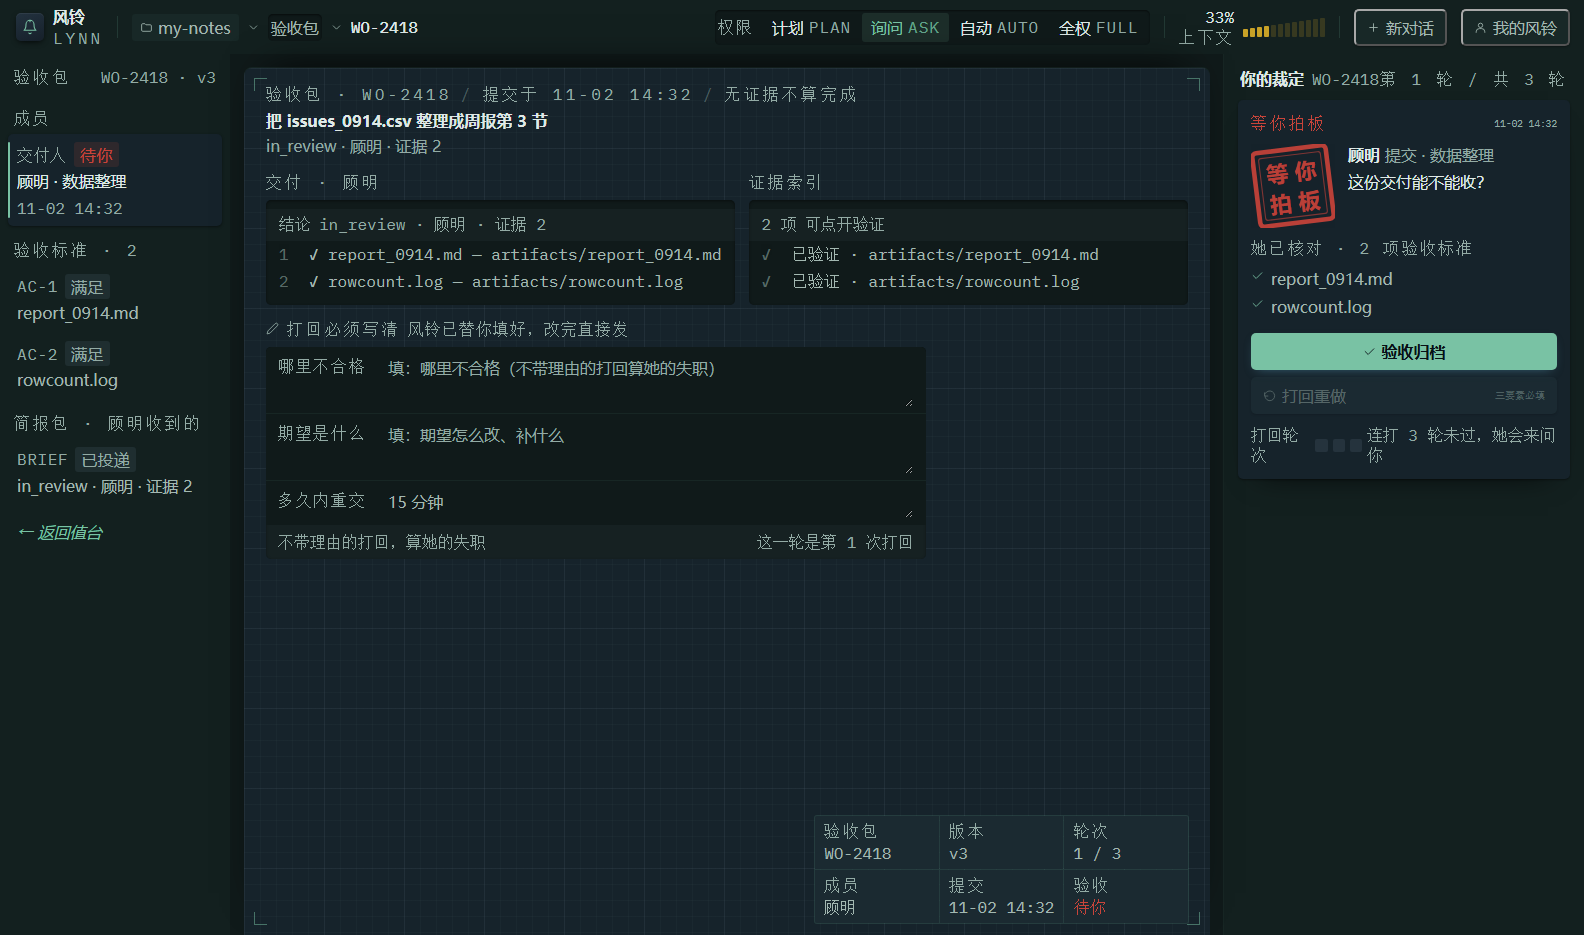
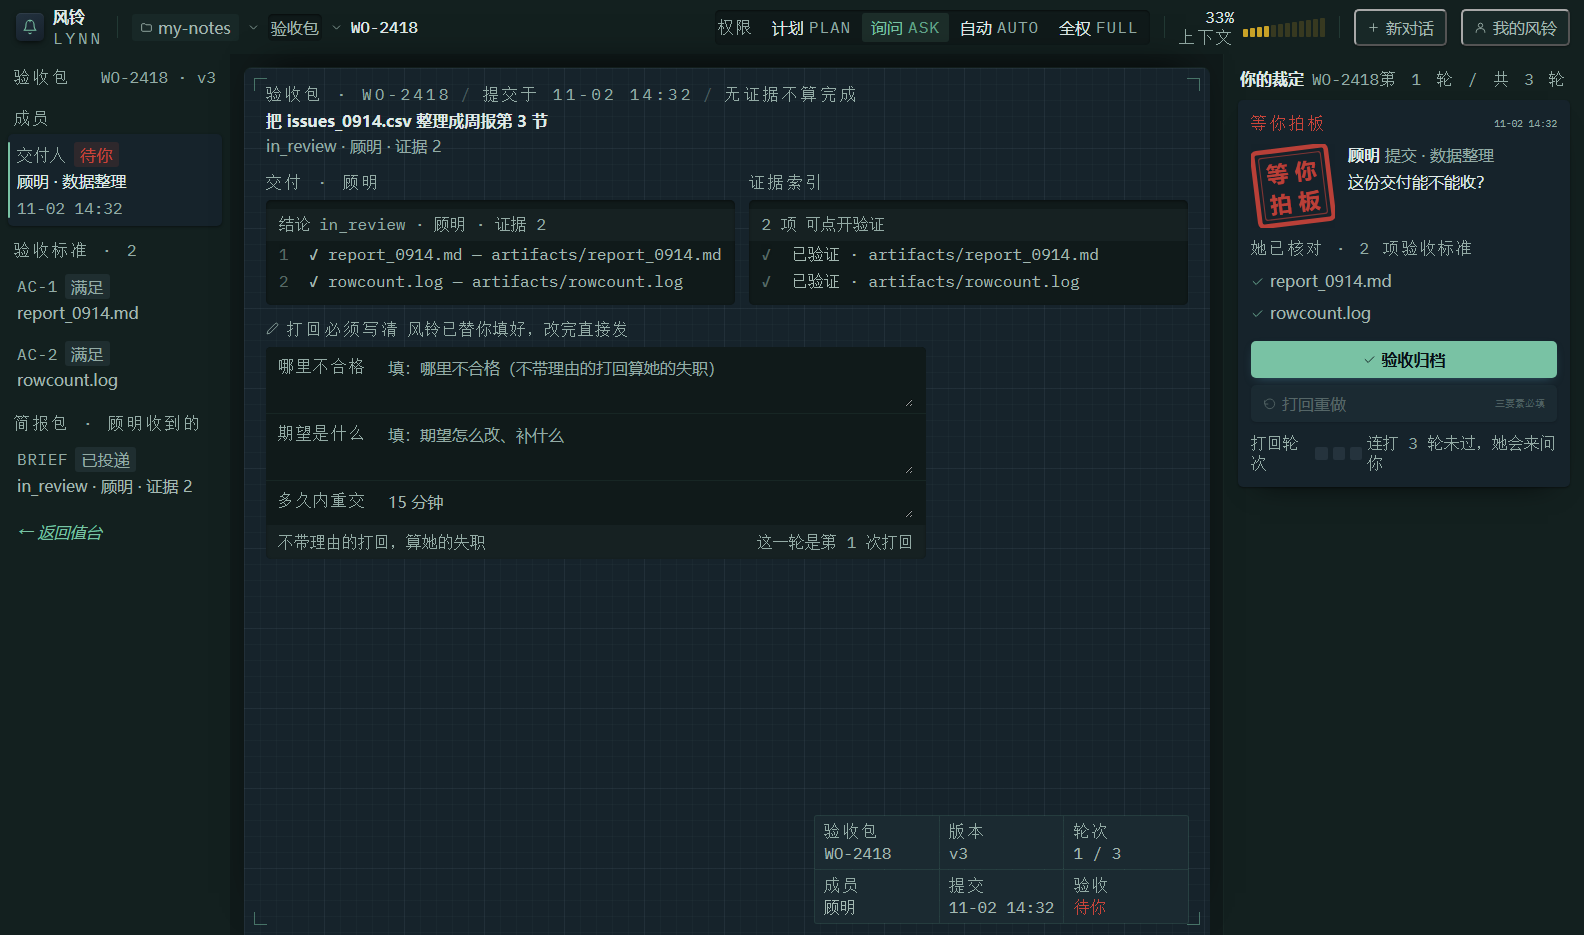
feat: compaction notices, session reset, theme-aware startup bg, clickable evidence, narrow-rail handle

Changed region(s): [[0.7734, 0.2791, 0.9899, 0.4652], [0.8662, 0.4652, 0.9899, 0.4963]]

diff --git a/src/renderer/desk/Desk.tsx b/src/renderer/desk/Desk.tsx
@@ -111,8 +111,10 @@ function TopRail({
       />
 
       <div
-        className="gauge"
-        title={`上下文 ${desk.usage.contextTokens} / ${desk.usage.contextWindow} · 会话累计 ${fmtTokens(desk.tokensUsed)} tokens`}
+        className={`gauge${contextPct >= 90 ? " warn" : contextPct >= 70 ? " near" : ""}`}
+        title={`上下文 ${desk.usage.contextTokens} / ${desk.usage.contextWindow} · 会话累计 ${fmtTokens(desk.tokensUsed)} tokens${
+          contextPct >= 70 ? " · 接近上限时 Pi 会自动压缩，原文保留在卷宗" : ""
+        }`}
       >
         <div className="gauge-read">
           <div className="v">{contextPct}%</div>
@@ -1262,12 +1264,25 @@ function ReviewDesk({
                 <div className="accept">
                   <div className="k">她已核对 · {ac.length} 项验收标准</div>
                   <ul>
-                    {ac.map((c, i) => (
-                      <li key={i} className={c.ok ? "ok" : "bad"}>
-                        <Icon name={c.ok ? "check" : "warn"} size="sm" />
-                        <span>{c.text}</span>
-                      </li>
-                    ))}
+                    {ac.map((c, i) => {
+                      const ref = job.evidence[i]?.ref;
+                      return (
+                        <li key={i} className={c.ok ? "ok" : "bad"}>
+                          <button
+                            type="button"
+                            className="ac-link"
+                            disabled={!ref}
+                            title={ref ? `打开 ${ref}` : "这项没有可打开的文件"}
+                            onClick={() => {
+                              if (ref) void window.lynn.rpc("evidence.open", { taskId: job.id, ref });
+                            }}
+                          >
+                            <Icon name={c.ok ? "check" : "warn"} size="sm" />
+                            <span>{c.text}</span>
+                          </button>
+                        </li>
+                      );
+                    })}
                   </ul>
                 </div>
               )}

diff --git a/src/main/main.ts b/src/main/main.ts
@@ -24,14 +24,26 @@ let pet: BrowserWindow | null = null;
 const preload = () => path.join(__dirname, "preload.js");
 const indexHtml = () => path.join(__dirname, "../renderer/index.html");
 
+/** 上次用的主题底色：渲染层切换时写进来，首帧直接用，避免亮色主题先闪一帧暗底 */
+function lastBackground(): string {
+  try {
+    const file = path.join(app.getPath("userData"), "appearance.json");
+    const j = JSON.parse(fs.readFileSync(file, "utf-8")) as { desk?: string };
+    if (typeof j.desk === "string" && /^#[0-9a-f]{6}$/i.test(j.desk)) return j.desk;
+  } catch {
+    /* 首次启动没有这个文件 */
+  }
+  return "#0d1116";
+}
+
 function createWindow(): void {
   win = new BrowserWindow({
     width: 1440,
     height: 900,
     minWidth: 1080,
     minHeight: 720,
-    // 首帧就是主题底色：默认夜航暗色，避免暗色主题先闪一帧白屏
-    backgroundColor: "#0d1116",
+    // 首帧就是上次的主题底色（默认夜航暗色），不闪白也不闪错色
+    backgroundColor: lastBackground(),
     show: false,
     title: "风铃 Lynn · 指挥台",
     autoHideMenuBar: true,
@@ -131,6 +143,20 @@ app.whenReady().then(async () => {
       }
       if (method === "plugins.probe") {
         return kernel.probePlugin((params as { id: string }).id);
+      }
+      if (method === "app.appearance") {
+        const p = params as { mode?: string; desk?: string };
+        if (typeof p.desk === "string") win?.setBackgroundColor(p.desk);
+        try {
+          fs.writeFileSync(
+            path.join(app.getPath("userData"), "appearance.json"),
+            JSON.stringify({ mode: p.mode, desk: p.desk }),
+            "utf-8",
+          );
+        } catch {
+          /* 写不了就下次再试 */
+        }
+        return { ok: true };
       }
       if (method === "evidence.open") {
         const p = params as { taskId: string; ref: string };

diff --git a/src/main/kernel.ts b/src/main/kernel.ts
@@ -529,6 +529,7 @@ export class Kernel {
         },
       });
     });
+    this.setTurn({ phase: "working" });
     return approved
       ? null
       : `用户拒绝了这次「${name}」调用。不要重试同一动作，改成向用户说明或换一条路（审批拒绝不算错误轮）。`;
@@ -932,6 +933,22 @@ export class Kernel {
         this.lastDeltaEmit = now;
         this.notify({ type: "delta", text: this.liveCard.text, cardId: this.liveCard.id });
       }
+    }
+    // 压缩：Pi 内置自动压缩，界面必须给交代（否则"上下文突然变短"像丢数据）
+    if (ev.type === "compaction_start") {
+      this.card({ kind: "system", text: "上下文接近上限，正在压缩更早的对话…" });
+    }
+    if (ev.type === "compaction_end") {
+      const before = typeof ev.tokensBefore === "number" ? ev.tokensBefore : null;
+      const after = typeof ev.tokensAfter === "number" ? ev.tokensAfter : null;
+      this.card({
+        kind: "system",
+        text:
+          before !== null && after !== null
+            ? `已压缩：${before} → ${after} tokens。原文仍在卷宗，可随时回看。`
+            : "上下文已压缩。原文仍在卷宗，可随时回看。",
+      });
+      this.log("compacted", { before, after });
     }
     // 工具卡由 emit("tool") 统一落 feed，这里不重复
   }
@@ -1694,6 +1711,8 @@ export class Kernel {
         this.feed = [];
         this.history = [];
         this.tokensUsed = 0;
+        this.usage = { turnIn: 0, turnOut: 0, sessionIn: 0, sessionOut: 0, contextTokens: 0, contextWindow: this.usage.contextWindow };
+        this.setTurn({ phase: "idle", busy: false, pending: 0, taskId: undefined, startedAt: undefined });
         this.createFreshSession = true;
         void this.resetAgentHost();
         try {

diff --git a/src/renderer/styles/dispatch.css b/src/renderer/styles/dispatch.css
@@ -1515,3 +1515,46 @@ button.ev.openable:hover { background: var(--hover-bg); }
 button.ev:focus-visible { outline: 2px solid var(--blue); outline-offset: 2px; }
 .ev .t { color: var(--ink); }
 .ev .d { color: var(--ink-3); }
+
+/* 上下文接近上限：黄铜提醒、朱砂警告（文案在 gauge 的 title 里） */
+.gauge.near .gauge-read .v { color: var(--brass); }
+.gauge.warn .gauge-read .v { color: var(--seal); }
+
+/* 验收标准可点开证据（点了才真的打开文件） */
+.ac-link {
+  display: inline-flex;
+  align-items: center;
+  gap: 6px;
+  border: 0;
+  background: none;
+  color: inherit;
+  font: inherit;
+  padding: 2px 0;
+  text-align: left;
+  cursor: pointer;
+  border-radius: 2px;
+}
+.ac-link:hover:not(:disabled) { color: var(--ink); text-decoration: underline; text-underline-offset: 3px; }
+.ac-link:disabled { cursor: default; }
+.ac-link:focus-visible { outline: 2px solid var(--blue); outline-offset: 2px; }
+
+/* 窄窗口：右栏收成抽屉，但边缘留一个看得见的拉手（悬停即展开） */
+@media (max-width: 1280px) {
+  .right { overflow: visible; }
+  .right::after {
+    content: "编制表";
+    position: absolute;
+    left: -26px;
+    top: 18px;
+    writing-mode: vertical-rl;
+    padding: 8px 4px;
+    border-radius: 3px 0 0 3px;
+    background: var(--sheet-2);
+    color: var(--ink-3);
+    font-family: var(--f-mono);
+    font-size: var(--fs-label);
+    letter-spacing: .12em;
+    box-shadow: -6px 0 14px -12px #000;
+  }
+  .right:hover::after, .right:focus-within::after { color: var(--blue); }
+}

diff --git a/src/renderer/desk/theme.ts b/src/renderer/desk/theme.ts
@@ -43,6 +43,9 @@ export function applyTheme(id: ThemeId, mode: ThemeMode): void {
   document.documentElement.dataset.mode = mode;
   localStorage.setItem(KEY_THEME, id);
   localStorage.setItem(KEY_MODE, mode);
+  // 把底色交给壳：下次冷启动首帧就用它，不闪白也不闪错色
+  const desk = THEMES.find((t) => t.id === id)?.[mode].desk;
+  if (desk) void window.lynn.rpc("app.appearance", { mode, desk }).catch(() => undefined);
 }
 
 /**

diff --git a/src/shared/contract.ts b/src/shared/contract.ts
@@ -273,6 +273,11 @@ export interface RpcContracts {
     params: void;
     result: { ok: boolean };
   };
+  /** 记住当前主题底色（首帧用，避免白闪/错色闪） */
+  "app.appearance": {
+    params: { mode: string; desk: string };
+    result: { ok: boolean };
+  };
   /** 打开一条证据（限定在该工单工作区内；越界拒绝） */
   "evidence.open": {
     params: { taskId: string; ref: string };
